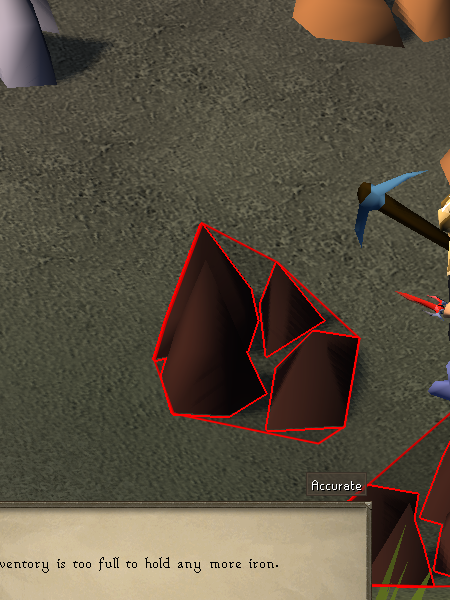
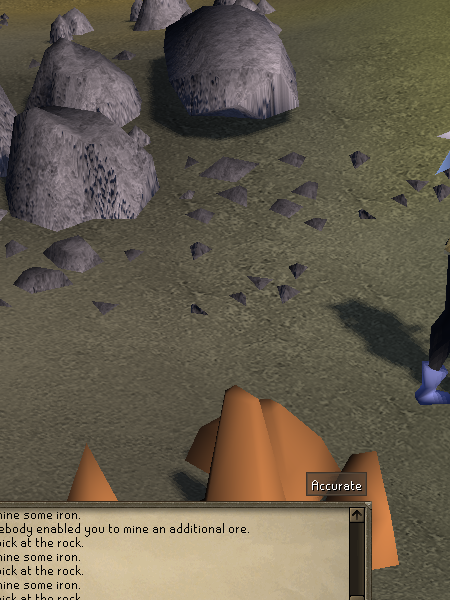
very nice

diff --git a/miner.py b/miner.py
@@ -230,6 +230,7 @@ def powerminer_text(ore, num, Take_Human_Break=False, Run_Duration_hours=5):
     t_end = time.time() + (60 * 60 * Run_Duration_hours)
     while time.time() < t_end:
         invent = invent_enabled()
+        print('\ninvent step')
         if invent == 0:
             actions = 'opening inventory'
             pyautogui.press('esc')
@@ -243,15 +244,18 @@ def powerminer_text(ore, num, Take_Human_Break=False, Run_Duration_hours=5):
         #inventory = int(inv_count(powerlist[ore])) + int(count_gems()) + int(count_gems2()) + int(count_geo())
         inventory = gem_count + ore_count + clue_count
         #print_progress(time_left, spot, mined_text, powerlist, ore, actions)
+        print('\npre invent check')
         if inventory > 27:
             actions = 'dropping ore starting...'
             #print_progress(time_left, spot, mined_text, powerlist, ore, actions)
             actions = drop_ore()
             #print_progress(time_left, spot, mined_text, powerlist, ore, actions)
             random_breaks(0.2, 0.7)
+        print('\ndoing textshot idk')
         mined_text = Image_to_Text('thresh', 'textshot.png')
         #print_progress(time_left, spot, mined_text, powerlist, ore, actions)
         if mined_text.strip().lower() != 'mining' and mined_text.strip().lower() != 'mininq':
+            print('\nmining or something')
             mined_text = 'Not Mining'
             #print_progress(time_left, spot, mined_text, powerlist, ore, actions)
             #random_breaks(0.05, 0.1)
@@ -260,6 +264,7 @@ def powerminer_text(ore, num, Take_Human_Break=False, Run_Duration_hours=5):
                 c = random.triangular(0.05, 1, 0.5)
                 time.sleep(c)
         else:
+            print('\nMINING')
             mined_text = 'Mining'
         #print_progress(time_left, spot, mined_text, powerlist, ore, actions)
 
@@ -303,6 +308,7 @@ if __name__ == "__main__":
     Run_Duration_hours = 1.14
 
                 # | ore | marker color | take break | how long to run for in hours
-    powerminer_text(iron, red, Take_Human_Break=True, Run_Duration_hours=Run_Duration_hours)
+    # powerminer_text(iron, red, Run_Duration_hours=Run_Duration_hours)
 
+    sergio_powermine()
     #os.system('shutdown -s -f')

diff --git a/sergio_miner.py b/sergio_miner.py
@@ -1,0 +1,69 @@
+import datetime
+import win32gui
+from threading import Thread
+import core
+import yaml
+from functions import Image_count, invent_enabled
+from functions import image_Rec_clicker
+from functions import screen_Image
+from functions import release_drop_item
+from functions import drop_item
+from functions import Image_to_Text
+from functions import invent_crop
+from functions import resizeImage
+from PIL import ImageGrab
+
+from functions import random_combat
+from functions import random_quests
+from functions import random_skills
+from functions import random_inventory
+from functions import random_breaks
+
+import numpy as np
+import cv2
+import time
+import random
+import pyautogui
+
+global hwnd
+global iflag
+global icoord
+iflag = False
+global newTime_break
+newTime_break = False
+global timer
+global timer_break
+global ibreak
+import slyautomation_title
+
+
+def click_random(x, y):
+    b = random.uniform(0.33, 0.46)
+    x = random.randrange(x, x + 11) + 5
+    y = random.randrange(y, y + 16) + 5
+    d = random.uniform(1.15, 1.53)
+    pyautogui.moveTo(x, y, duration=b)
+    time.sleep(d)
+    pyautogui.click()
+
+
+def click_western():
+    click_random(666, 628)
+
+
+def click_southern():
+    click_random(833, 488)
+
+
+def click_eastern():
+    click_random(584, 428)
+
+
+def powermine():
+    click_western()
+    click_southern()
+    click_eastern()
+
+
+if __name__ == "__main__":
+    powermine()
